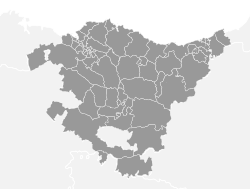
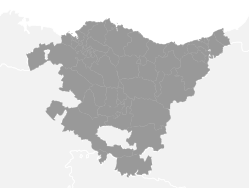
añade mapa de euskadi sin zonas

diff --git a/index.html b/index.html
@@ -205,6 +205,9 @@
 	<section class="vis-item" id="indicadores">
 		<header class="row vis-head">
 			<div class="col-md-10">
+				<figure>
+					<img class="img-responsive" src="images/mapa-euskadi-zonas.png" />
+				</figure>	
 				<h1>Comparativa de redes escolares pública y privado-concertada en Euskadi por zona escolar: becas material escolar, comedor y alumnado extranjero <a href="#indicadores">#</a></h1>
 			</div>
 		</header>
